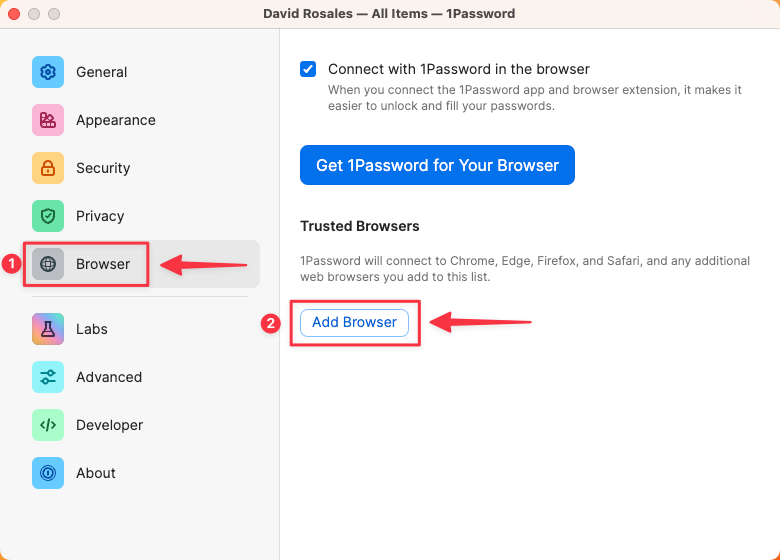
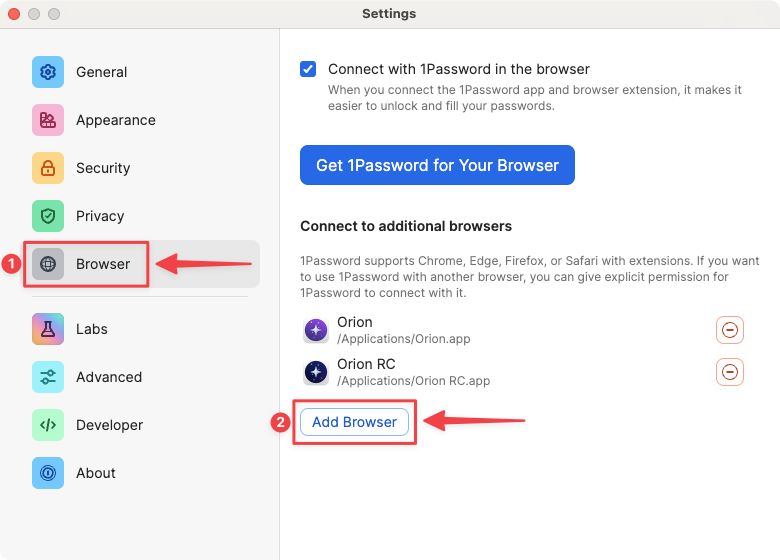
Update 1Password.md: remove custom browser support section and image corners (#313)
* Update 1Password page media to remove corners

Update 1Password page media to remove corners

* Update 1password.md

Simplify 1Password page as it is no longer necessary to enable custom browser support in 1Password Labs section

diff --git a/docs/orion/browser-extensions/1password.md b/docs/orion/browser-extensions/1password.md
@@ -1,38 +1,34 @@
 # 1Password & Orion
 
+
 ## 1Password Extension
 
 1Password is now compatible with Orion thanks to the joint effort between 1Password and Orion teams. To use 1Password in Orion you will need the latest version of 1Password browser extension (to get it, choose **Tools** > **Extensions**, then click **Popular Extensions** in Orion).
 
-<img src="./media/macos_1password_popular_extensions_menu.png" width="500" alt="Popular Extensions Menu"><br />
+![Orion Popular Extensions Menu](./media/macos_1password_popular_extensions_menu.png){width=500px data-zoomable}
 
-<img src="./media/macos_1password_popular_extensions_window.png" width="500" alt="1Password Extension for Orion"><br />
+![1Password Extension for Orion](./media/macos_1password_popular_extensions_window.png){width=500px data-zoomable}
 
-<img src="./media/macos_1password_popular_extensions_permissions.png" width="500" alt="1Password Extension for Orion - Permissions"><br />
+![1Password Extension for Orion - Permissions](./media/macos_1password_popular_extensions_permissions.png){width=500px data-zoomable}
+
 
 ## 1Password App
 
 To use 1Password with Orion, you need to have the 1Password app installed (version 8.10.16 +), since it allows browser whitelisting (you will need to add Orion as a whitelisted app).
 
+
 ## Whitelisting Orion in 1Password
 
-To add Orion as a whitelisted app in 1Password, you first need to enable custom browser support, you can find this option in **1Password** > **Settings** > **Labs** > **Enable custom browser support** > **Connect to browsers not explicitly vetted by 1Password**.
+To add Orion as a whitelisted app in 1Password, you need to add Orion to the list of Trusted Browsers, to do this go to **1Password** > **Settings** > **Browser** > **Add Browser**, then select **Orion** in your Applications folder and click **Open**, you will be presented with a modal to provide Orion with access to 1Password. To continue, press **Authorize**.
 
-<img src="./media/macos_1password_1p_whitelisting_settings_menu.png" width="500" alt="1Password Settings Menu"><br />
+![1Password Settings Menu](./media/macos_1password_1p_whitelisting_settings_menu.png){width=500px data-zoomable}
 
-<img src="./media/macos_1password_1p_whitelisting_custom_browser_support.png" width="500" alt="1Password - Custom Browser Support"><br />
+![1Password Settings - Trusted Browsers](./media/macos_1password_1p_whitelisting_trusted_browsers.png){width=500px data-zoomable}
 
-<img src="./media/macos_1password_1p_whitelisting_connect_to_browsers.png" width="500" alt="1Password - Connect to Browsers"><br />
+![1Password Settings - Select Orion in the Open Modal](./media/macos_1password_1p_whitelisting_open_modal.png){width=500px data-zoomable}
 
-Next, you need to add Orion to the list of Trusted Browsers, to do this go to **1Password** > **Settings** > **Browser** > **Add Browser**, then select **Orion** in your Applications folder and click **Open**, you will be presented with a modal to provide Orion with access to 1Password. To continue, press **Authorize**.
+![1Password Settings - Authorize Orion](./media/macos_1password_1p_whitelisting_authorize_orion.png){width=500px data-zoomable}
 
-<img src="./media/macos_1password_1p_whitelisting_settings_menu.png" width="500" alt="1Password Settings Menu"><br />
-
-<img src="./media/macos_1password_1p_whitelisting_trusted_browsers.png" width="500" alt="1Password Settings - Trusted Browsers"><br />
-
-<img src="./media/macos_1password_1p_whitelisting_open_modal.png" width="500" alt="1Password Settings - Select Orion in the Open Modal"><br />
-
-<img src="./media/macos_1password_1p_whitelisting_authorize_orion.png" width="500" alt="1Password Settings - Authorize Orion"><br />
 
 ## 1Password Global Autofill
 
